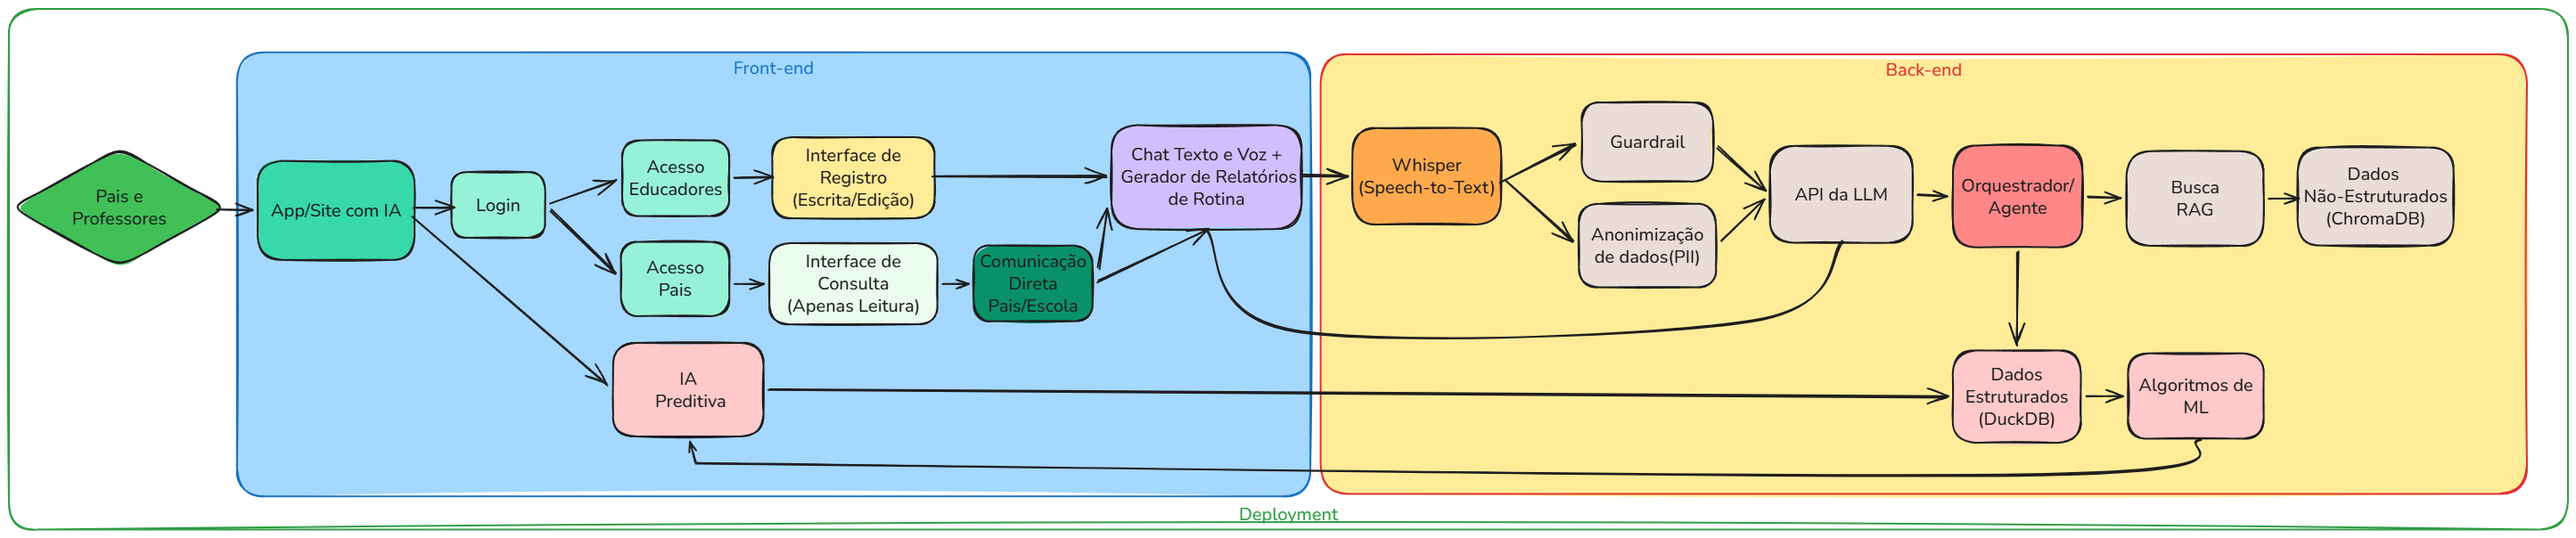
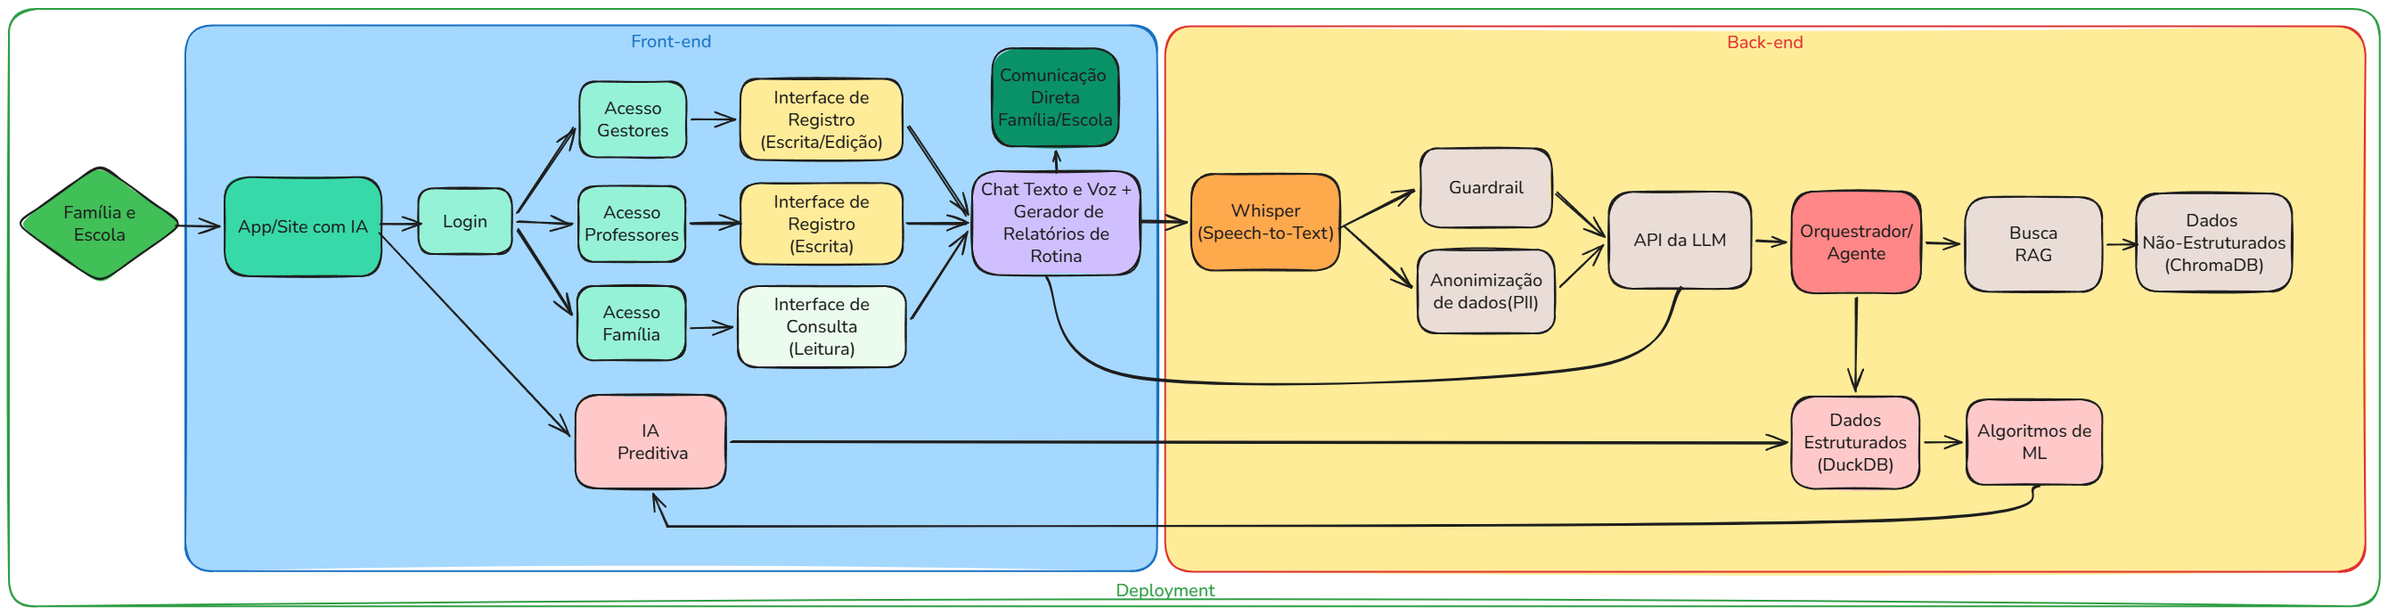
docs: corrige guia de instalação no README e atualiza imagem do fluxo macro

diff --git a/README.md b/README.md
@@ -79,8 +79,7 @@ SYSTEM_SQL_STRICT = """Dados tabulares (bloco "Dados tabulares" acima):
 
 ##   Estrutura do Projeto
 
-* `data/`: Contém os arquivos de entrada (ex: `diario_estruturado.csv`).
-* `scripts/`: Scripts auxiliares de automação e limpeza de dados.
+* `data/`: Contém os arquivos de entrada (ex: `diario_estruturado.csv`, `info_aluno.csv`).
 * `Dockerfile` & `docker-compose.yml`: Configurações para ambiente isolado e replicável.
 * `app.py`: Script principal para processamento e análise.
 
@@ -95,7 +94,7 @@ SYSTEM_SQL_STRICT = """Dados tabulares (bloco "Dados tabulares" acima):
 ### Passo a Passo
 1.  **Clone o repositório:**
     ```bash
-    git clone [https://github.com/Leonardolabdc/Rotina-Viva.git](https://github.com/Leonardolabdc/Rotina-Viva.git)
+    git clone https://github.com/Leonardolabdc/Rotina-Viva.git
     cd Rotina-Viva
     ```
 2.  **Suba o ambiente com Docker:**
